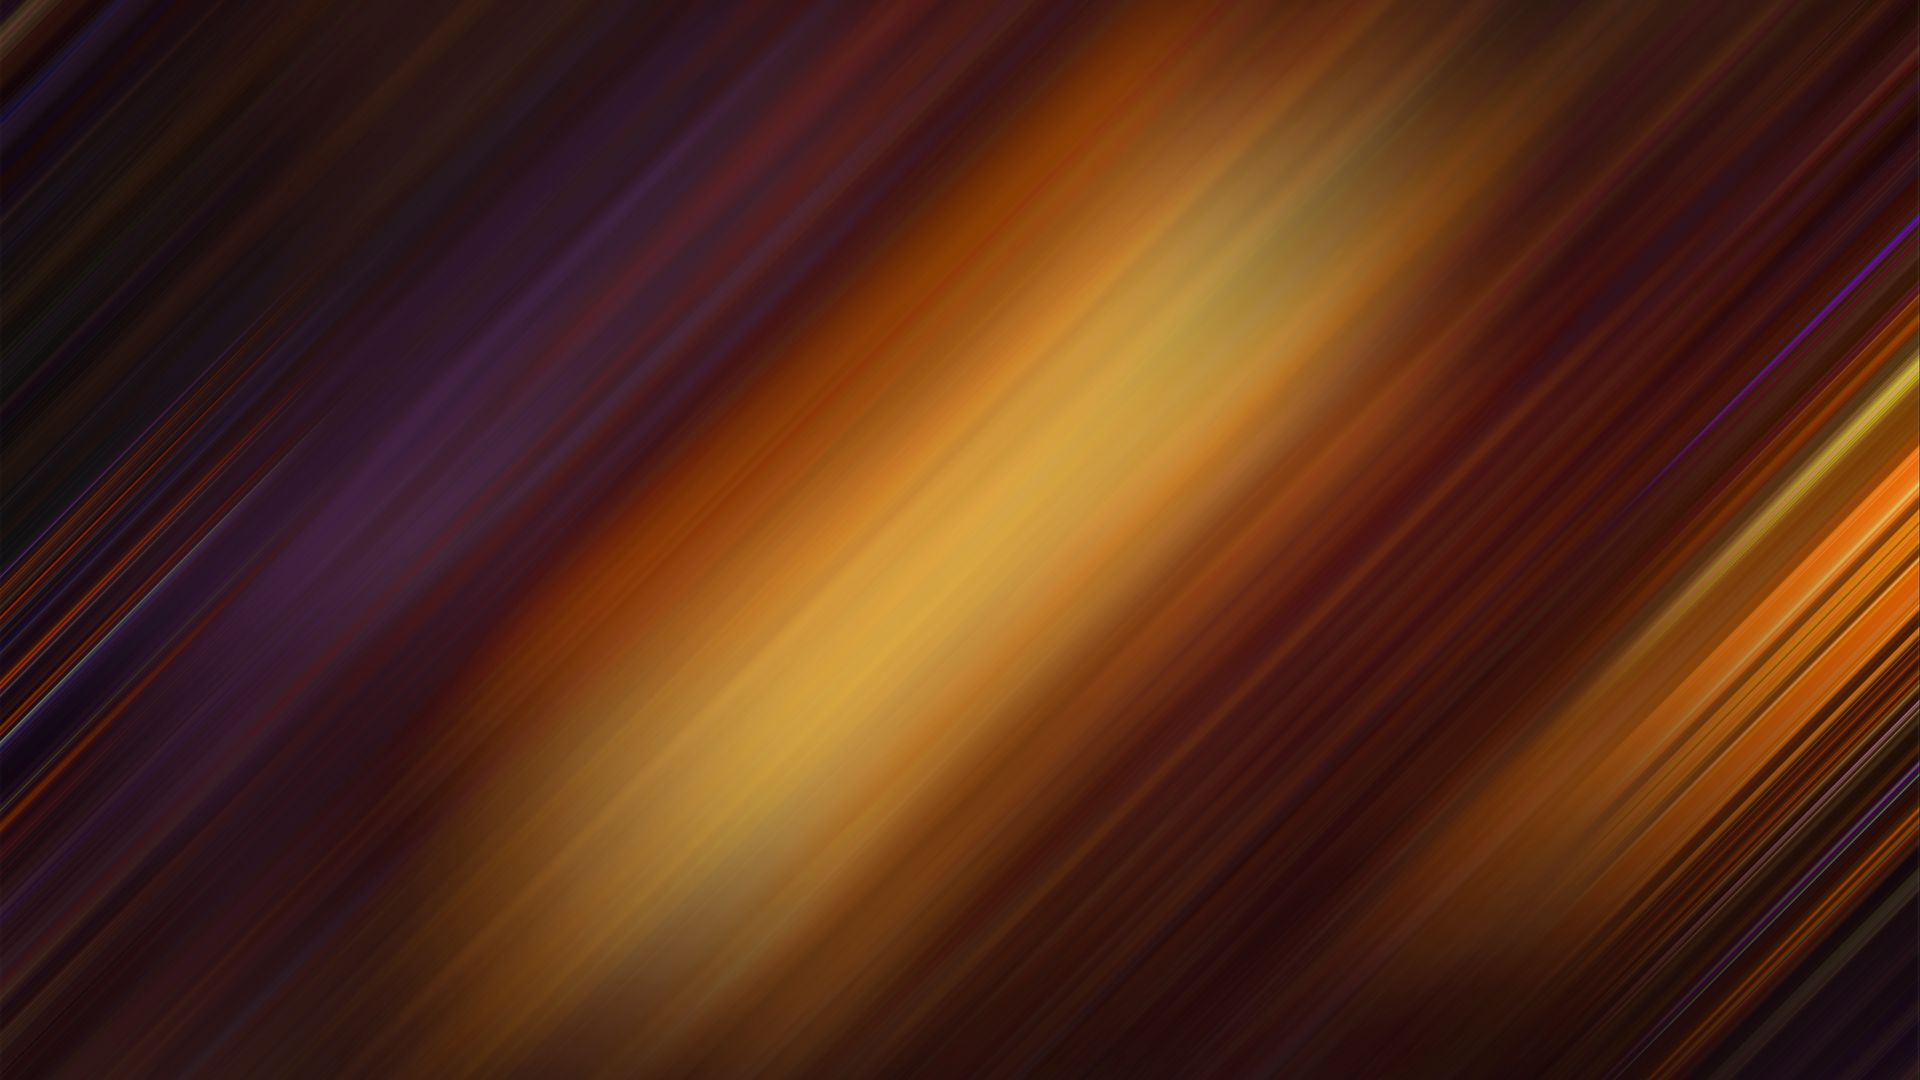
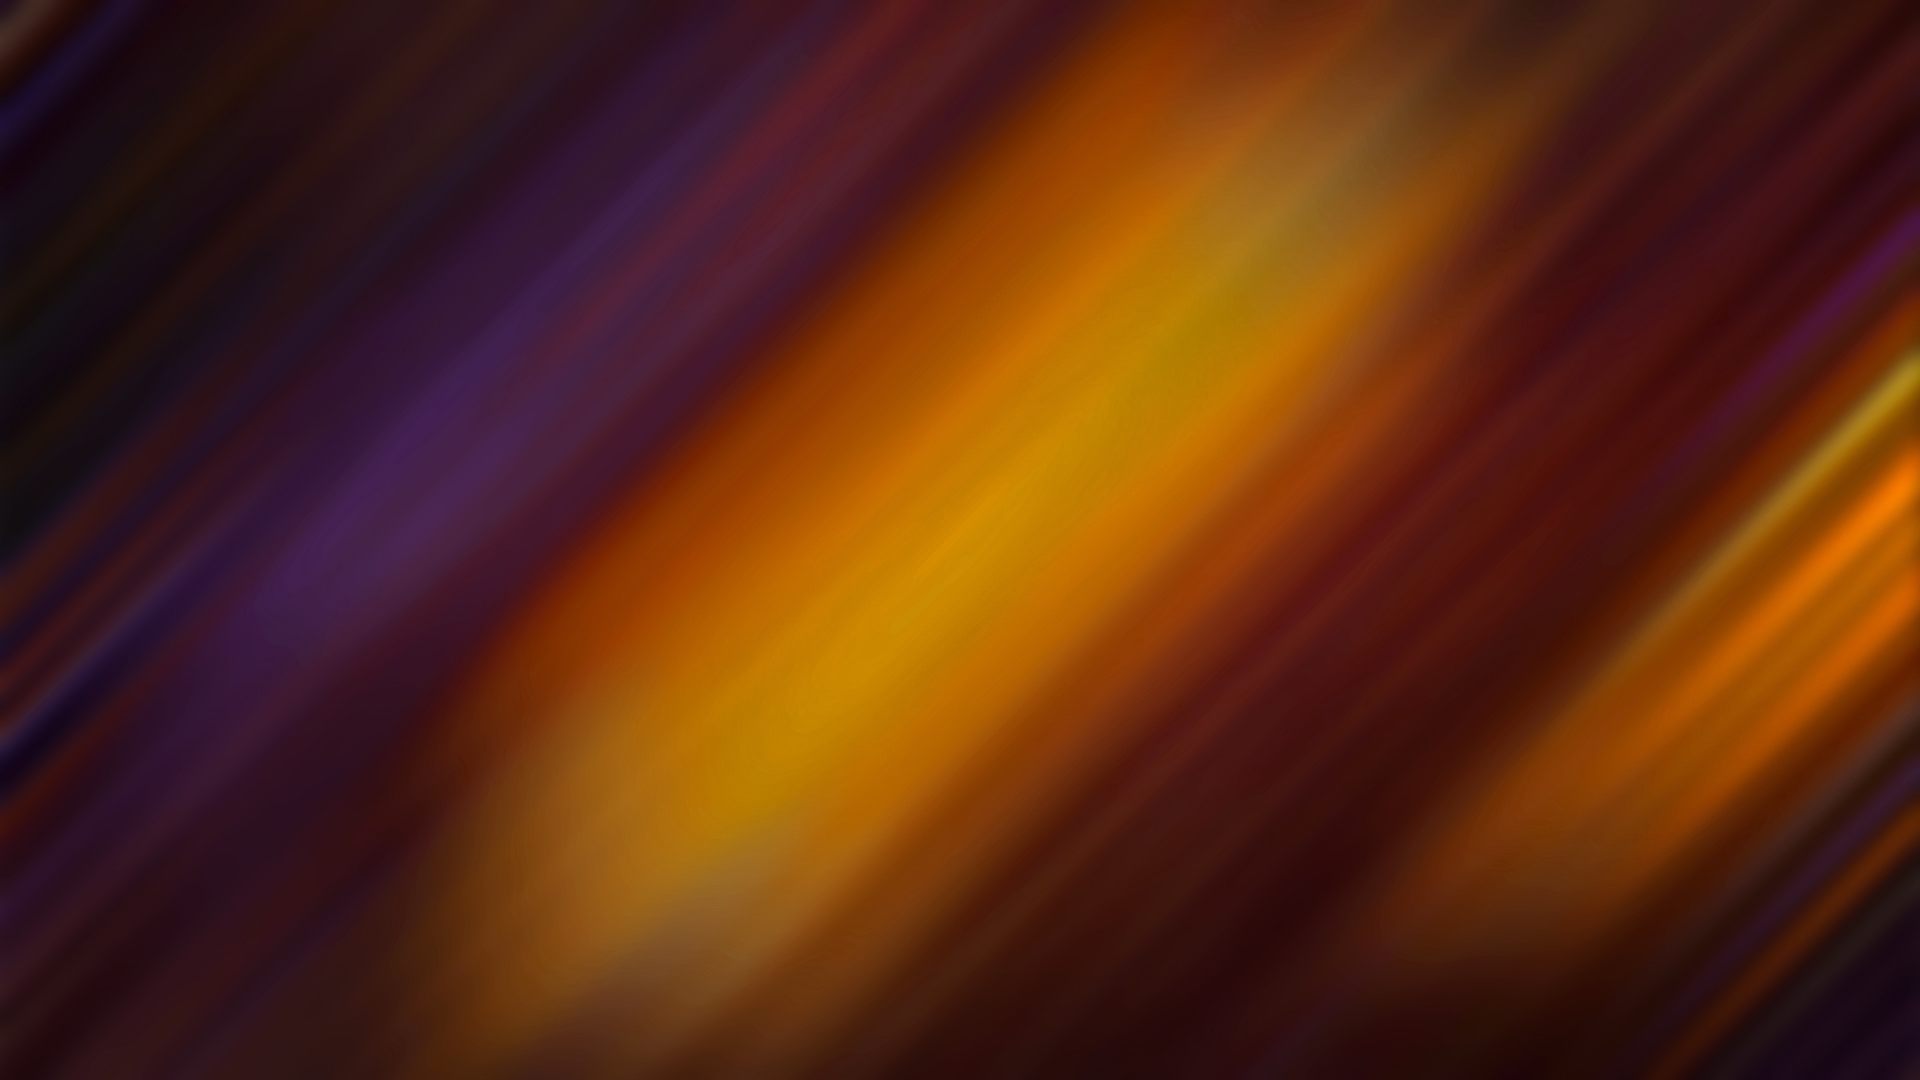
edited the fon

diff --git a/menu/css/style.sass b/menu/css/style.sass
@@ -1,7 +1,7 @@
 body
     padding: 0
     margin: 0
-    background-image: url(../img/fon.png)
+    background-image: url(../img/fon.jpg)
     background-position: center
     background-repeat: no-repeat
     background-size: cover

diff --git a/menu/css/style.css b/menu/css/style.css
@@ -1,7 +1,7 @@
 body {
   padding: 0;
   margin: 0;
-  background-image: url(../img/fon.png);
+  background-image: url(../img/fon.jpg);
   background-position: center;
   background-repeat: no-repeat;
   background-size: cover;
